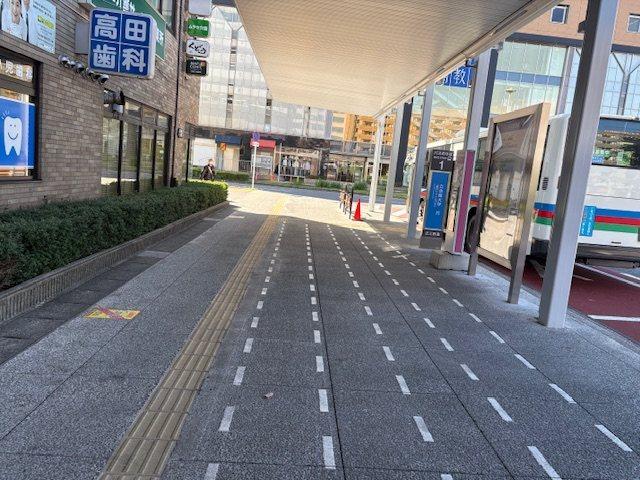
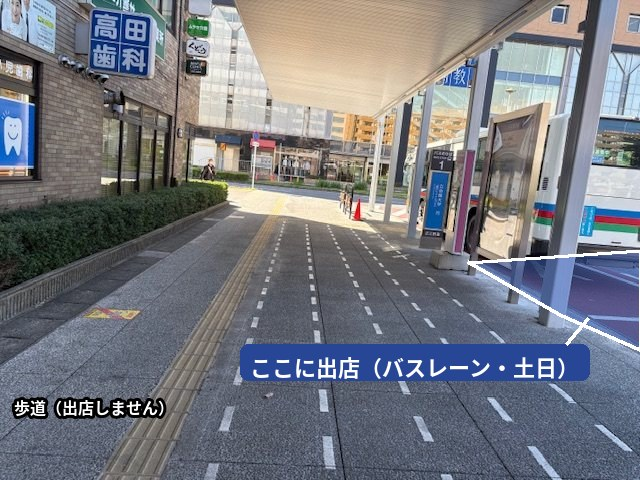
南草津LP: 東口Bの写真にバスレーンの出店位置を示す
Claude-Session: https://claude.ai/code/session_01K3tEHyLV3YscQQtQMX3cnR

Changed region(s): [[0.375, 0.5, 1.0, 0.8125], [0.0, 0.8125, 0.2812, 0.875]]

diff --git a/minakusa-ekimae.html b/minakusa-ekimae.html
@@ -373,7 +373,7 @@ window.MINAKUSA_ENTRY={
 <div class="dows" aria-label="出店できる曜日：金・土・日"><span class="on">金</span><span class="on">土</span><span class="on">日</span></div>
 <dl class="zrow"><dt>場所</dt><dd>西口を出て正面の駅前広場（みなくさフードガーデン）</dd><dt>時間</dt><dd>金 15:00〜20:00<br>土日 10:00〜20:00（通し）</dd><dt>形</dt><dd>キッチンカー・テント</dd><dt>搬入口</dt><dd>幅330cm<br><small>キッチンカーはミラー込みの車幅を確認</small></dd></dl>
 <div class="price"><b>3,300</b><span>円／金曜1枠（土日の通しは5,500円）</span></div></div></article>
-<article class="zone zB"><div class="zone-ph" style="background-image:url(images/minakusa/east-b.jpg);background-position:50% 55%"><span class="tag">東口 B</span><span class="slots">5枠</span></div><div class="zone-body">
+<article class="zone zB"><div class="zone-ph" style="background-image:url(images/minakusa/east-b.jpg?v=1110);background-position:80% 62%"><span class="tag">東口 B</span><span class="slots">5枠</span></div><div class="zone-body">
 <h3>週末のバスのりばで、持ち帰り<small>のりば1・2前</small></h3>
 <div class="who"><svg width="20" height="20" viewBox="0 0 24 24" fill="none" stroke="currentColor" stroke-width="1.8" stroke-linecap="round" stroke-linejoin="round" aria-hidden="true"><circle cx="9" cy="8" r="3"/><circle cx="17" cy="9" r="2.3"/><path d="M3 20c.7-3.5 3-5 6-5s5.3 1.5 6 5M15 15.5c2.6 0 4.5 1.3 5 4"/></svg>週末のお出かけ・バスを待つ人</div>
 <div class="dows" aria-label="出店できる曜日：土・日"><span>金</span><span class="on">土</span><span class="on">日</span></div>
